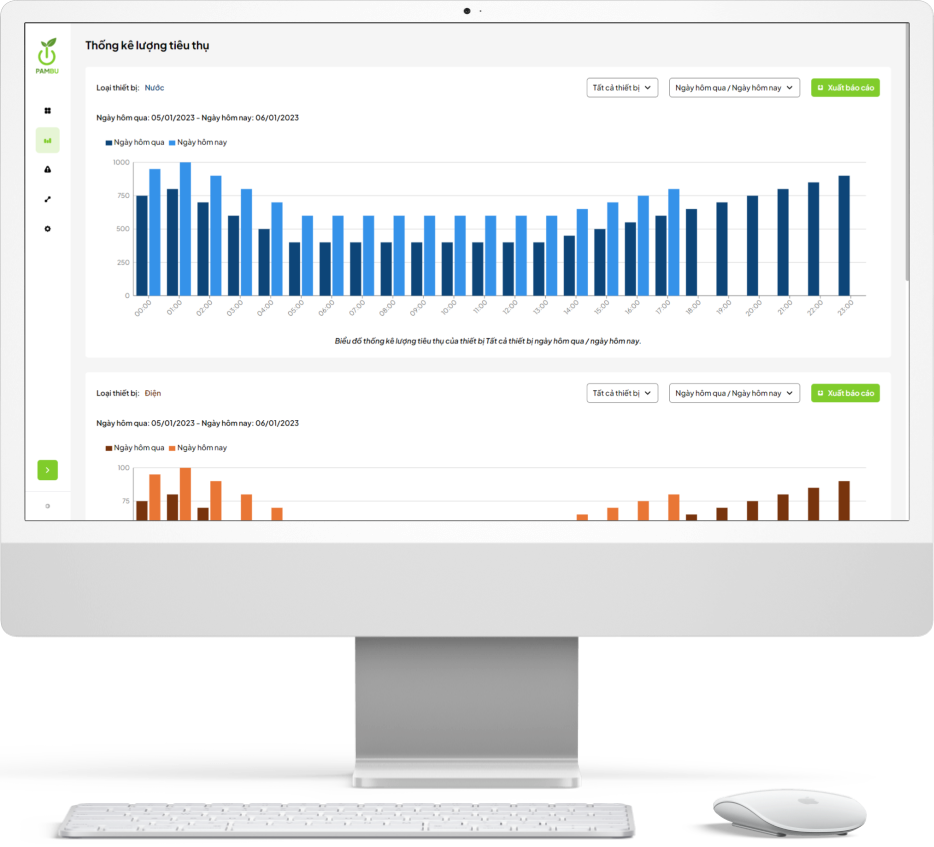
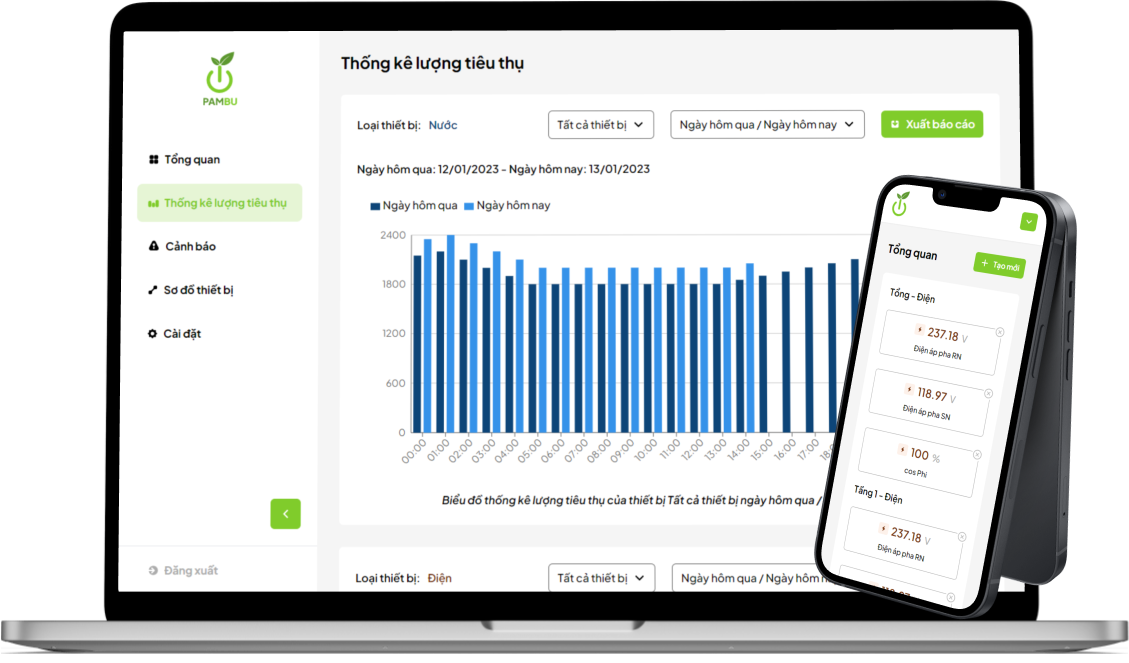
add hero section at home

diff --git a/pages/index.js b/pages/index.js
@@ -66,6 +66,41 @@ const HomePage = ({ oeePosts, pmsPosts, newsPosts }) => {
         <div className="w-full flex justify-center items-center">
           <div className="px-5 md:px-8 py-10 max-w-screen-xl w-full overflow-hidden md:overflow-visible">
             <div>
+              <h1 className="hidden md:block text-4xl text-gray text-center font-bold">Pambu - Phần Mềm Quản Lý, Giám Sát <br /> <span className="text-green-secondary">Năng Lượng</span> Và <span className="text-green-secondary">Hiệu Suất</span> Máy</h1>
+              <h1 className="block md:hidden text-2xl text-gray text-center font-bold">Pambu - Phần Mềm Quản Lý, Giám Sát <span className="text-green-secondary">Năng Lượng</span> Và <span className="text-green-secondary">Hiệu Suất</span> Máy</h1>
+              <h4 className="mt-6 text-xl text-gray/80 text-center font-medium">
+                Chìa khóa mở ra  cánh cửa số hóa dữ liệu nhà máy. Tiên phong trong công nghệ Cloud
+              </h4>
+              <div className="mt-10 md:mt-16 grid grid-cols-2 gap-6 md:gap-16">
+                <div className="col-span-2 md:col-span-1">
+                  <h2 className="text-xl md:text-2xl text-gray text-center font-bold">
+                    Pambu OEE <br /><span className="text-gray/60 font-semibold">Phần mềm quản lý hiệu suất và bảo dưỡng máy</span>
+                  </h2>
+                  <div className="mt-8">
+                    <Image src="/image/oee/mockup-oee.png" width='1240' height='650' alt='' />
+                  </div>
+                  <div className="mt-8 flex items-center justify-center">
+                    <Link href='/san-pham/pambu-oee'>
+                      <a className="px-10 py-3 bg-white hover:bg-green-primary border border-green-primary text-green-primary hover:text-white font-semibold rounded-md duration-200">Xem chi tiết</a>
+                    </Link>
+                  </div>
+                </div>
+                <div className="col-span-2 md:col-span-1">
+                  <h2 className="text-xl md:text-2xl text-gray text-center font-bold">
+                    Pambu PMS <br /> <span className="text-gray/60 font-semibold">Phần mềm giám sát năng lượng</span>
+                  </h2>
+                  <div className="mt-8">
+                    <Image src="/image/pms/mockup-pms.png" width='1240' height='650' alt='' />
+                  </div>
+                  <div className="mt-8 flex items-center justify-center">
+                    <Link href='/san-pham/pambu-pms'>
+                      <a className="px-10 py-3 bg-white hover:bg-green-primary border border-green-primary text-green-primary hover:text-white font-semibold rounded-md duration-200">Xem chi tiết</a>
+                    </Link>
+                  </div>
+                </div>
+              </div>
+            </div>
+            <div className="mt-32">
               <Title label="Tin tức nổi bật" className="bg-green-primary" />
               <div className="mt-8">
                 <div className="grid grid-cols-12 gap-6 lg:gap-16">

diff --git a/components/common/Footer.jsx b/components/common/Footer.jsx
@@ -81,20 +81,21 @@ function FooterDesktop() {
                                     <svg width="27" height="23" viewBox="0 0 27 23" fill="none" xmlns="http://www.w3.org/2000/svg">
                                         <path d="M6.67962 3.32038L7.29289 2.70711C7.68342 2.31658 8.31658 2.31658 8.70711 2.70711L11.2929 5.29289C11.6834 5.68342 11.6834 6.31658 11.2929 6.70711L9.50048 8.49952C9.2016 8.7984 9.1275 9.255 9.31653 9.63307C10.4093 11.8186 12.1814 13.5907 14.3669 14.6835C14.745 14.8725 15.2016 14.7984 15.5005 14.4995L17.2929 12.7071C17.6834 12.3166 18.3166 12.3166 18.7071 12.7071L21.2929 15.2929C21.6834 15.6834 21.6834 16.3166 21.2929 16.7071L20.6796 17.3204C18.5683 19.4317 15.2257 19.6693 12.837 17.8777L11.6286 16.9714C9.88504 15.6638 8.33622 14.115 7.02857 12.3714L6.12226 11.163C4.33072 8.7743 4.56827 5.43173 6.67962 3.32038Z" fill="#80CC2B" />
                                     </svg>
-                                    <a href='tel:[phone redacted]' className='ml-2 text-gray/80 font-semibold'>[phone redacted]</a>
+                                    <a href='tel:[phone redacted]' className='ml-2 text-gray/80 font-semibold'>[phone redacted]</a>
                                 </li>
                                 <li className='flex items-center justify-center'>
                                     <svg width="24" height="24" viewBox="0 0 24 24" fill="none" xmlns="http://www.w3.org/2000/svg">
                                         <path fillRule="evenodd" clipRule="evenodd" d="M3.87868 5.87868C3 6.75736 3 8.17157 3 11V13C3 15.8284 3 17.2426 3.87868 18.1213C4.75736 19 6.17157 19 9 19H15C17.8284 19 19.2426 19 20.1213 18.1213C21 17.2426 21 15.8284 21 13V11C21 8.17157 21 6.75736 20.1213 5.87868C19.2426 5 17.8284 5 15 5H9C6.17157 5 4.75736 5 3.87868 5.87868ZM6.5547 8.16795C6.09517 7.8616 5.4743 7.98577 5.16795 8.4453C4.8616 8.90483 4.98577 9.5257 5.4453 9.83205L10.8906 13.4622C11.5624 13.9101 12.4376 13.9101 13.1094 13.4622L18.5547 9.83205C19.0142 9.5257 19.1384 8.90483 18.8321 8.4453C18.5257 7.98577 17.9048 7.8616 17.4453 8.16795L12 11.7982L6.5547 8.16795Z" fill="#80CC2B" />
                                     </svg>
-                                    <a href='mailto:[email redacted]' className='ml-2 text-gray/80 font-semibold'>[email redacted]</a>
+                                    <a href='mailto:[email redacted]' className='ml-2 text-gray/80 font-semibold'>[email redacted]</a>
                                 </li>
                                 <li className='flex items-center justify-center'>
-                                    <svg width="24" height="24" viewBox="0 0 24 24" fill="none" xmlns="http://www.w3.org/2000/svg">
-                                        <path fillRule="evenodd" clipRule="evenodd" d="M12.398 19.804C13.881 19.0348 19 16.0163 19 11C19 7.13401 15.866 4 12 4C8.13401 4 5 7.13401 5 11C5 16.0163 10.119 19.0348 11.602 19.804C11.8548 19.9351 12.1452 19.9351 12.398 19.804ZM12 14C13.6569 14 15 12.6569 15 11C15 9.34315 13.6569 8 12 8C10.3431 8 9 9.34315 9 11C9 12.6569 10.3431 14 12 14Z" fill="#80CC2B" />
-                                    </svg>
-                                    <span className='ml-2 text-gray/80 font-semibold'>phường Phú La, quận Hà Đông,
-                                        Hà Nội</span>
+                                    <div>
+                                        <svg width="24" height="24" viewBox="0 0 24 24" fill="none" xmlns="http://www.w3.org/2000/svg">
+                                            <path fillRule="evenodd" clipRule="evenodd" d="M12.398 19.804C13.881 19.0348 19 16.0163 19 11C19 7.13401 15.866 4 12 4C8.13401 4 5 7.13401 5 11C5 16.0163 10.119 19.0348 11.602 19.804C11.8548 19.9351 12.1452 19.9351 12.398 19.804ZM12 14C13.6569 14 15 12.6569 15 11C15 9.34315 13.6569 8 12 8C10.3431 8 9 9.34315 9 11C9 12.6569 10.3431 14 12 14Z" fill="#80CC2B" />
+                                        </svg>
+                                    </div>
+                                    <span className='ml-2 text-gray/80 font-semibold'>Ô số 24, lô V5A – Khu nhà ở thấp tầng, khu đô thị mới Văn Phú , Phường Phú La, Quận Hà Đông, Thành phố Hà Nội, Việt Nam</span>
                                 </li>
                             </ul>
                         </div>
@@ -172,20 +173,21 @@ function FooterMobile() {
                                         <svg width="27" height="23" viewBox="0 0 27 23" fill="none" xmlns="http://www.w3.org/2000/svg">
                                             <path d="M6.67962 3.32038L7.29289 2.70711C7.68342 2.31658 8.31658 2.31658 8.70711 2.70711L11.2929 5.29289C11.6834 5.68342 11.6834 6.31658 11.2929 6.70711L9.50048 8.49952C9.2016 8.7984 9.1275 9.255 9.31653 9.63307C10.4093 11.8186 12.1814 13.5907 14.3669 14.6835C14.745 14.8725 15.2016 14.7984 15.5005 14.4995L17.2929 12.7071C17.6834 12.3166 18.3166 12.3166 18.7071 12.7071L21.2929 15.2929C21.6834 15.6834 21.6834 16.3166 21.2929 16.7071L20.6796 17.3204C18.5683 19.4317 15.2257 19.6693 12.837 17.8777L11.6286 16.9714C9.88504 15.6638 8.33622 14.115 7.02857 12.3714L6.12226 11.163C4.33072 8.7743 4.56827 5.43173 6.67962 3.32038Z" fill="#80CC2B" />
                                         </svg>
-                                        <a href='tel:[phone redacted]' className='ml-2 text-gray/80 font-semibold'>[phone redacted]</a>
+                                        <a href='tel:[phone redacted]' className='ml-2 text-gray/80 font-semibold'>[phone redacted]</a>
                                     </li>
                                     <li className='flex items-center justify-center'>
                                         <svg width="24" height="24" viewBox="0 0 24 24" fill="none" xmlns="http://www.w3.org/2000/svg">
                                             <path fillRule="evenodd" clipRule="evenodd" d="M3.87868 5.87868C3 6.75736 3 8.17157 3 11V13C3 15.8284 3 17.2426 3.87868 18.1213C4.75736 19 6.17157 19 9 19H15C17.8284 19 19.2426 19 20.1213 18.1213C21 17.2426 21 15.8284 21 13V11C21 8.17157 21 6.75736 20.1213 5.87868C19.2426 5 17.8284 5 15 5H9C6.17157 5 4.75736 5 3.87868 5.87868ZM6.5547 8.16795C6.09517 7.8616 5.4743 7.98577 5.16795 8.4453C4.8616 8.90483 4.98577 9.5257 5.4453 9.83205L10.8906 13.4622C11.5624 13.9101 12.4376 13.9101 13.1094 13.4622L18.5547 9.83205C19.0142 9.5257 19.1384 8.90483 18.8321 8.4453C18.5257 7.98577 17.9048 7.8616 17.4453 8.16795L12 11.7982L6.5547 8.16795Z" fill="#80CC2B" />
                                         </svg>
-                                        <a href='mailto:[email redacted]' className=' ml-2 text-gray /80 font-semibold'>[email redacted]</a>
+                                        <a href='mailto:[email redacted]' className=' ml-2 text-gray/80 font-semibold'>[email redacted]</a>
                                     </li>
                                     <li className='flex items-center justify-center'>
-                                        <svg width="24" height="24" viewBox="0 0 24 24" fill="none" xmlns="http://www.w3.org/2000/svg">
-                                            <path fillRule="evenodd" clipRule="evenodd" d="M12.398 19.804C13.881 19.0348 19 16.0163 19 11C19 7.13401 15.866 4 12 4C8.13401 4 5 7.13401 5 11C5 16.0163 10.119 19.0348 11.602 19.804C11.8548 19.9351 12.1452 19.9351 12.398 19.804ZM12 14C13.6569 14 15 12.6569 15 11C15 9.34315 13.6569 8 12 8C10.3431 8 9 9.34315 9 11C9 12.6569 10.3431 14 12 14Z" fill="#80CC2B" />
-                                        </svg>
-                                        <span className='ml-2 text-gray/80 font-semibold'>phường Phú La, quận Hà Đông,
-                                            Hà Nội</span>
+                                        <div>
+                                            <svg width="24" height="24" viewBox="0 0 24 24" fill="none" xmlns="http://www.w3.org/2000/svg">
+                                                <path fillRule="evenodd" clipRule="evenodd" d="M12.398 19.804C13.881 19.0348 19 16.0163 19 11C19 7.13401 15.866 4 12 4C8.13401 4 5 7.13401 5 11C5 16.0163 10.119 19.0348 11.602 19.804C11.8548 19.9351 12.1452 19.9351 12.398 19.804ZM12 14C13.6569 14 15 12.6569 15 11C15 9.34315 13.6569 8 12 8C10.3431 8 9 9.34315 9 11C9 12.6569 10.3431 14 12 14Z" fill="#80CC2B" />
+                                            </svg>
+                                        </div>
+                                        <span className='ml-2 text-gray/80 font-semibold'>Ô số 24, lô V5A – Khu nhà ở thấp tầng, khu đô thị mới Văn Phú , Phường Phú La, Quận Hà Đông, Thành phố Hà Nội, Việt Nam</span>
                                     </li>
                                 </ul>
                             </div>

diff --git a/components/common/Header.jsx b/components/common/Header.jsx
@@ -126,11 +126,11 @@ function HeaderDesktop({ stickyHeader, isProductPage, isPMSPage }) {
                         <div>
                             {
                                 isProductPage && (
-                                    <a href="tel:[phone redacted]" className={`${isPMSPage && "bg-orange-primary" || "bg-green-primary"} py-3 px-6 flex items-center rounded-md`}>
+                                    <a href="tel:[phone redacted]" className={`${isPMSPage && "bg-orange-primary" || "bg-green-primary"} py-3 px-6 flex items-center rounded-md`}>
                                         <svg width="27" height="23" viewBox="0 0 27 23" fill="none" xmlns="http://www.w3.org/2000/svg">
                                             <path d="M6.67962 3.32038L7.29289 2.70711C7.68342 2.31658 8.31658 2.31658 8.70711 2.70711L11.2929 5.29289C11.6834 5.68342 11.6834 6.31658 11.2929 6.70711L9.50048 8.49952C9.2016 8.7984 9.1275 9.255 9.31653 9.63307C10.4093 11.8186 12.1814 13.5907 14.3669 14.6835C14.745 14.8725 15.2016 14.7984 15.5005 14.4995L17.2929 12.7071C17.6834 12.3166 18.3166 12.3166 18.7071 12.7071L21.2929 15.2929C21.6834 15.6834 21.6834 16.3166 21.2929 16.7071L20.6796 17.3204C18.5683 19.4317 15.2257 19.6693 12.837 17.8777L11.6286 16.9714C9.88504 15.6638 8.33622 14.115 7.02857 12.3714L6.12226 11.163C4.33072 8.7743 4.56827 5.43173 6.67962 3.32038Z" fill="#fff" />
                                         </svg>
-                                        <span className='ml-2 text-lg text-white font-semibold'>[phone redacted]</span>
+                                        <span className='ml-2 text-lg text-white font-semibold'>0387 430 957</span>
                                     </a>
                                 ) || (
                                     <Link href='/dat-lich-demo'>
@@ -252,12 +252,12 @@ function HeaderMobile({ stickyHeader, isProductPage, isPMSPage }) {
                                     isProductPage && (
                                         <a
                                             onClick={() => setOpenMenu(!openMenu)}
-                                            href="tel:[phone redacted]"
+                                            href="tel:[phone redacted]"
                                             className={`${isPMSPage && "bg-orange-primary" || "bg-green-primary"} py-3 px-6 flex items-center justify-center rounded-md`}>
                                             <svg width="27" height="23" viewBox="0 0 27 23" fill="none" xmlns="http://www.w3.org/2000/svg">
                                                 <path d="M6.67962 3.32038L7.29289 2.70711C7.68342 2.31658 8.31658 2.31658 8.70711 2.70711L11.2929 5.29289C11.6834 5.68342 11.6834 6.31658 11.2929 6.70711L9.50048 8.49952C9.2016 8.7984 9.1275 9.255 9.31653 9.63307C10.4093 11.8186 12.1814 13.5907 14.3669 14.6835C14.745 14.8725 15.2016 14.7984 15.5005 14.4995L17.2929 12.7071C17.6834 12.3166 18.3166 12.3166 18.7071 12.7071L21.2929 15.2929C21.6834 15.6834 21.6834 16.3166 21.2929 16.7071L20.6796 17.3204C18.5683 19.4317 15.2257 19.6693 12.837 17.8777L11.6286 16.9714C9.88504 15.6638 8.33622 14.115 7.02857 12.3714L6.12226 11.163C4.33072 8.7743 4.56827 5.43173 6.67962 3.32038Z" fill="#fff" />
                                             </svg>
-                                            <span className='ml-2 text-lg text-white font-semibold'>[phone redacted]</span>
+                                            <span className='ml-2 text-lg text-white font-semibold'>0387 430 957</span>
                                         </a>
                                     ) || (
                                         <Link href='/dat-lich-demo'>

diff --git a/data/pambu.js b/data/pambu.js
@@ -1,0 +1,8 @@
+export const PambuDataPage = {
+    heroSection: {
+        heading: "Giám Sát Năng Lượng Cùng Pambu PMS",
+        excerpt: "Lãng phí tài nguyên là vết thương đang rỉ máu của doanh nghiệp. Pambu PMS là giải pháp toàn diện, đơn giản, hiệu quả giúp doanh nghiệp lên kế hoạch sử dụng năng lượng tối ưu. Theo dõi, phát hiện sớm những điểm thất thoát lãng phí. Cung cấp bức tranh toàn cảnh về mặt bằng sử dụng năng lượng và hơn thế nữa.",
+        color: "green",
+        img: "/image/pms/mockup-pms.png"
+    },
+}

diff --git a/components/common/Hotline.jsx b/components/common/Hotline.jsx
@@ -5,12 +5,12 @@ function Hotline({ isPMSPage }) {
         <div className={`${isPMSPage && "bg-orange-primary/20" || "bg-green-primary/20"} `}>
             <div className='w-full flex justify-center items-center'>
                 <div className='max-w-screen-xl w-full'>
-                    <a href="tel:[phone redacted]" className='py-4 px-8 h-full flex items-center justify-end'>
+                    <a href="tel:[phone redacted]" className='py-4 px-8 h-full flex items-center justify-end'>
                         <svg width="27" height="23" viewBox="0 0 27 23" fill="none" xmlns="http://www.w3.org/2000/svg">
                             <path d="M6.67962 3.32038L7.29289 2.70711C7.68342 2.31658 8.31658 2.31658 8.70711 2.70711L11.2929 5.29289C11.6834 5.68342 11.6834 6.31658 11.2929 6.70711L9.50048 8.49952C9.2016 8.7984 9.1275 9.255 9.31653 9.63307C10.4093 11.8186 12.1814 13.5907 14.3669 14.6835C14.745 14.8725 15.2016 14.7984 15.5005 14.4995L17.2929 12.7071C17.6834 12.3166 18.3166 12.3166 18.7071 12.7071L21.2929 15.2929C21.6834 15.6834 21.6834 16.3166 21.2929 16.7071L20.6796 17.3204C18.5683 19.4317 15.2257 19.6693 12.837 17.8777L11.6286 16.9714C9.88504 15.6638 8.33622 14.115 7.02857 12.3714L6.12226 11.163C4.33072 8.7743 4.56827 5.43173 6.67962 3.32038Z" fill={`${isPMSPage && "#E97635" || "#80CC2B"} `} />
                         </svg>
                         <span className='ml-2 text-lg font-semibold'>Hotline</span>
-                        <span className='ml-2 text-lg font-semibold'>[phone redacted]</span>
+                        <span className='ml-2 text-lg font-semibold'>0387 430 957</span>
                     </a>
                 </div>
             </div>

diff --git a/components/san-pham/HeroSection.jsx b/components/san-pham/HeroSection.jsx
@@ -34,7 +34,7 @@ function HeroSection({ data, isPMSPage }) {
                         <Image src='/image/line.png' width='500' height='500' alt='' />
                     </div>
                     <div className="absolute top-1/2 left-1/2 -translate-x-1/2 -translate-y-1/2 w-full flex items-center justify-center">
-                        <Image src={data.img} width='430' height='400' alt='' />
+                        <Image src={data.img} width='1240' height='650' alt='' />
                     </div>
                 </div>
             </div>

diff --git a/data/pms.js b/data/pms.js
@@ -1,7 +1,7 @@
 export const PMSDataPage = {
     heroSection: {
         heading: "Giám Sát Năng Lượng Cùng Pambu PMS",
-        excerpt: "Lãng phí tài nguyên là những phát cắt vào vết thương đang rỉ máu của doanh nghiệp. Pambu PMS là giải pháp toàn diện, đơn giản, hiệu quả giúp doanh nghiệp lên kế hoạch sử dụng năng lượng tối ưu. Theo dõi, phát hiện sớm những điểm thất thoát lãng phí. Cung cấp bức tranh toàn cảnh về mặt bằng sử dụng năng lượng và hơn thế nữa.",
+        excerpt: "Lãng phí tài nguyên là vết thương đang rỉ máu của doanh nghiệp. Pambu PMS là giải pháp toàn diện, đơn giản, hiệu quả giúp doanh nghiệp lên kế hoạch sử dụng năng lượng tối ưu. Theo dõi, phát hiện sớm những điểm thất thoát lãng phí. Cung cấp bức tranh toàn cảnh về mặt bằng sử dụng năng lượng và hơn thế nữa.",
         color: "orange",
         img: "/image/pms/mockup-pms.png"
     },

diff --git a/pages/dat-lich-demo.js b/pages/dat-lich-demo.js
@@ -102,7 +102,7 @@ const BookDemoPage = () => {
                   <li>Lắp đặt demo và lắng nghe ý kiến phản hồi của khách hàng.</li>
                 </ul>
                 <p className="mt-6">
-                  Còn chần chừ gì nữa mà không liên hệ ngay với đội ngũ Pambu tại hotline <a href="tel:[phone redacted]" className="font-bold">[phone redacted]</a> hoặc điền vào form dưới đây để sử dụng sản phẩm. Pambu rất vui lòng được đồng hành!
+                  Còn chần chừ gì nữa mà không liên hệ ngay với đội ngũ Pambu tại hotline <a href="tel:[phone redacted]" className="font-bold">[phone redacted]</a> hoặc điền vào form dưới đây để sử dụng sản phẩm. Pambu rất vui lòng được đồng hành!
                 </p>
               </div>
             </div>

diff --git a/pages/san-pham/pambu-oee.js b/pages/san-pham/pambu-oee.js
@@ -116,7 +116,7 @@ const OEELandingPage = () => {
                       <span>Để biết thêm thông tin chi tiết vui lòng đặt lịch demo
                         <Link href='/dat-lich-demo'>
                           <a className='ml-1 text-blue-primary underline'>tại đây</a>
-                        </Link> hoặc gọi điện trực tiếp để được đội ngũ chuyên gia tư vấn qua số hotline: [phone redacted]</span>
+                        </Link> hoặc gọi điện trực tiếp để được đội ngũ chuyên gia tư vấn qua số hotline: <a href="tel:[phone redacted]" className="text-green-secondary underline">[phone redacted]</a></span>
                     </div>
                   </div>
                   <div onClick={() => handleClickQuestion(4)} className='py-4 border-b border-gray/20 cursor-pointer'>

diff --git a/pages/san-pham/pambu-pms.js b/pages/san-pham/pambu-pms.js
@@ -96,7 +96,7 @@ const PMSLandingPage = () => {
                       <span>Để biết thêm thông tin chi tiết vui lòng đặt lịch demo
                         <Link href='/dat-lich-demo'>
                           <a className='ml-1 text-blue-primary underline'>tại đây</a>
-                        </Link> hoặc gọi điện trực tiếp để được đội ngũ chuyên gia tư vấn qua số hotline: [phone redacted]</span>
+                        </Link> hoặc gọi điện trực tiếp để được đội ngũ chuyên gia tư vấn qua số hotline: <a href="tel:[phone redacted]" className="text-green-secondary underline">[phone redacted]</a></span>
                     </div>
                   </div>
                   <div onClick={() => handleClickQuestion(3)} className='py-4 border-b border-gray/20 cursor-pointer'>